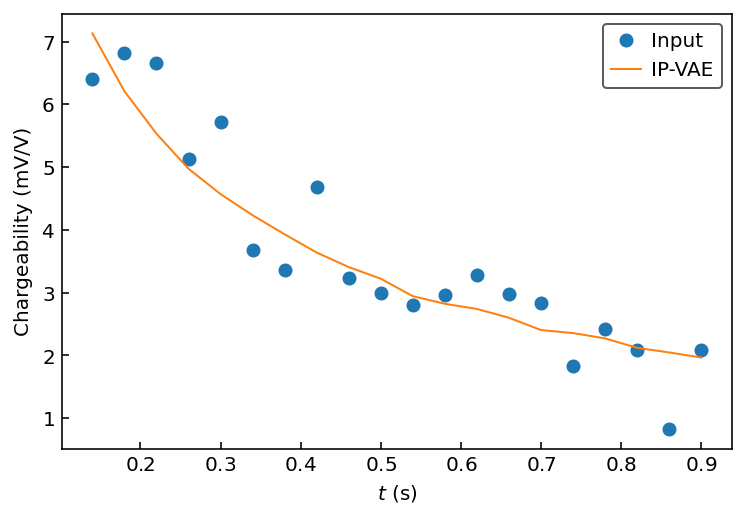
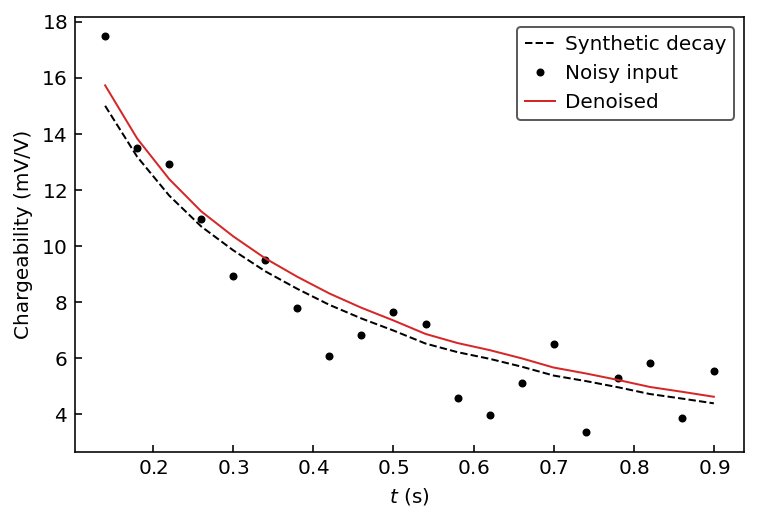
Update readme

diff --git a/tests.py b/tests.py
@@ -17,16 +17,19 @@ model = IPVAE()
 
 model = model.load_weights()
 
-# Generate an arbitrary noisy decay
-x = torch.exp(torch.linspace(10, 1, 20)/5) + 2*(torch.rand(20)-0.5)
+# Generate a synthetic decay
+x = model.module.decode(torch.randn(2))
+# Add synthetic noise to it
+xn = x + 5*(torch.rand(20) - 0.5)
 
-# Forward pass of the IP-VAE
-xp = model.forward(x)
+# Denoise decay with a forward pass
+xp = model.forward(xn)
 
 # Plot comparison
 t = np.arange(0.12+0.02, 0.92, 0.04)  # the IRIS ELREC Pro windows
-plt.plot(t, x.numpy(), 'o', label="Input")
-plt.plot(t, xp[0].detach().numpy(), label="IP-VAE")
+plt.plot(t, x.detach().numpy(), '--k', label="Synthetic decay")
+plt.plot(t, xn.detach().numpy(), '.k', label="Noisy input")
+plt.plot(t, xp[0].detach().numpy(), '-C3', label="Denoised")
 plt.legend()
 plt.ylabel("Chargeability (mV/V)")
 plt.xlabel("$t$ (s)")

diff --git a/README.md b/README.md
@@ -1,7 +1,7 @@
 # IP-VAE
 PyTorch implementation of the time-domain induced polarization variational autoencoder.
 
-Original paper: 
+Original paper:
 
 ## Setup
 
@@ -26,10 +26,12 @@ from ipvae import IPVAE
 model = IPVAE()
 model.load_weights()
 
-# Generate an arbitrary noisy decay
-x = torch.exp(torch.linspace(10, 1, 20)/5) + 5*(torch.rand(20)-0.5)
+# Generate a synthetic decay
+x = model.module.decode(torch.rand(2))
+# Add synthetic noise to it
+x += 5*(torch.rand(20) - 0.5)
 
-# IP-VAE forward pass
+# Denoise decay with a forward pass
 xp = model.forward(x)
 
 # Plot comparison
